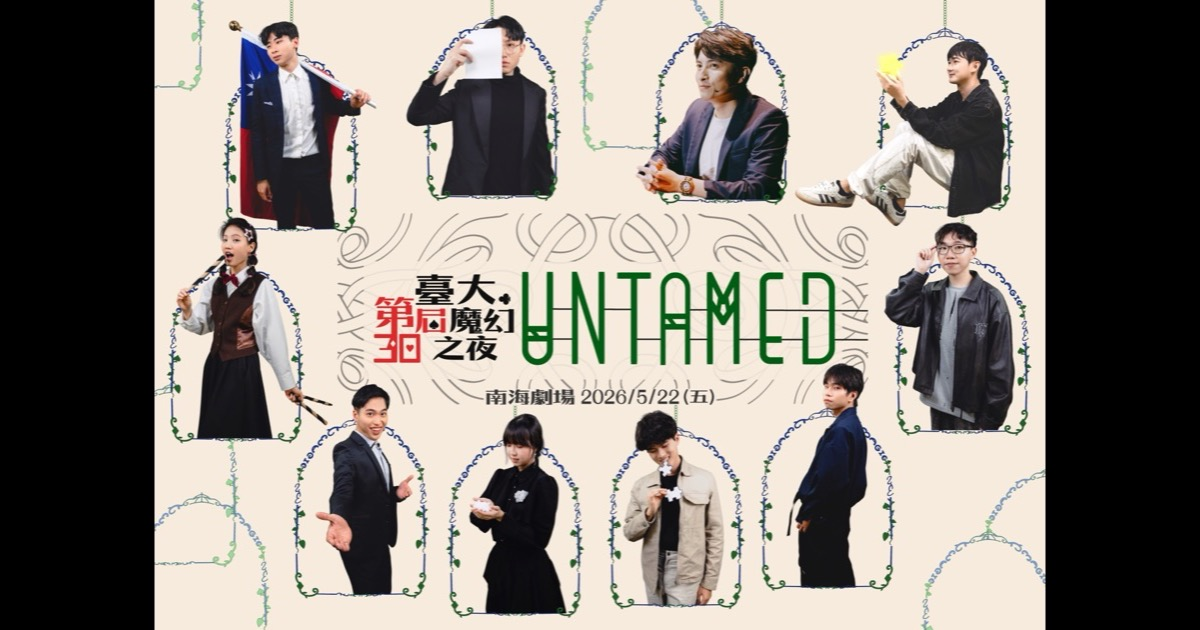
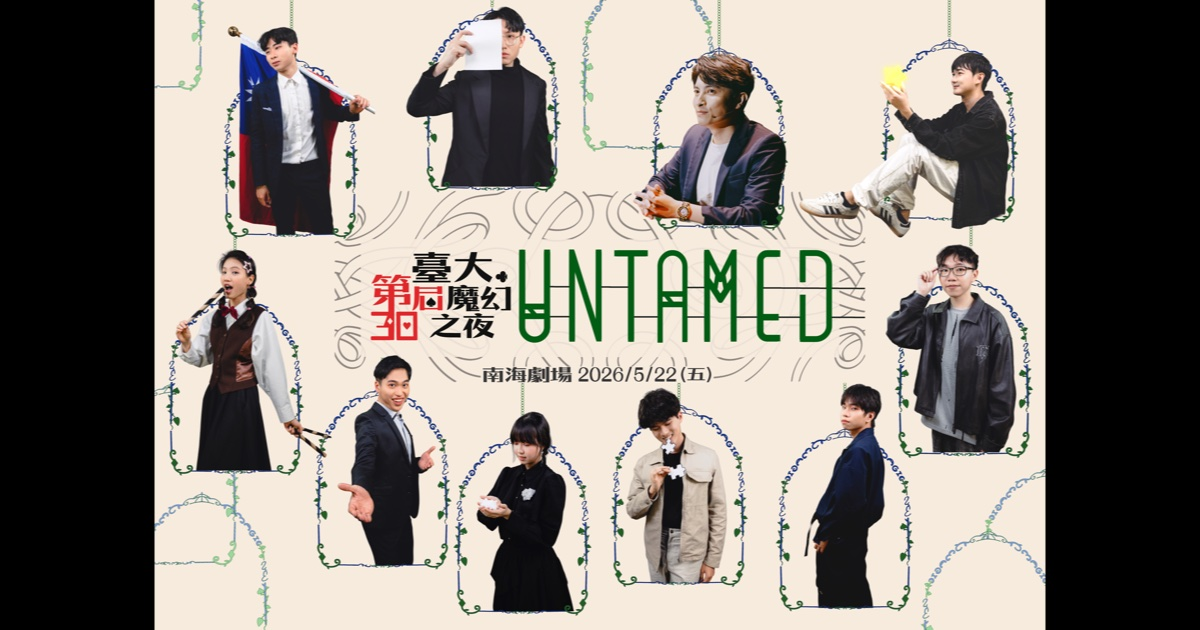
chore(web): regenerate poster assets from v2 artwork and document the workflow
Re-export the 3000px / 1200px posters and the 1200x630 OG image from the
updated UNTAMED artwork, and add a README section so next year's
maintainer doesn't have to rediscover the sips parameters.

diff --git a/README.md b/README.md
@@ -124,6 +124,42 @@ Web 在 localhost 會自動接 auth emulator，所以本機測試時用上面這
 
 兩邊要同步改（後端的 phase 時間是 source of truth、前端只做 UX 提示）。CRA 不能直接 import 出 `web/src/` 之外的檔案，所以暫時維持兩份；確認對齊就好。
 
+## 換新海報
+
+主視覺每年會換，要產三個衍生檔（從設計組給的高解析 PNG / JPG 開始）：
+
+| 輸出 | 尺寸 | 品質 | 用途 |
+| --- | --- | --- | --- |
+| `web/src/img/magic_night30.jpg` | 長邊 3000px | 85 | 桌機 / retina 海報主圖（在 [HomePage.jsx](web/src/pages/HomePage.jsx) `srcSet` 用） |
+| `web/src/img/magic_night30-sm.jpg` | 長邊 1200px | 80 | 手機海報（同上） |
+| `web/public/og-image.jpg` | 1200×630（黑底 letterbox） | 85 | FB / LINE / Twitter 分享卡片 |
+
+macOS 內建 `sips` 就夠用：
+
+```sh
+SRC=path/to/source.png
+
+# 主圖（3000px）
+sips -s format jpeg -s formatOptions 85 -Z 3000 "$SRC" \
+  --out web/src/img/magic_night30.jpg
+
+# 手機版（1200px）
+sips -s format jpeg -s formatOptions 80 -Z 1200 "$SRC" \
+  --out web/src/img/magic_night30-sm.jpg
+
+# OG image（1200×630，海報置中於黑底）
+sips --resampleHeight 630 "$SRC" --out /tmp/og-fitted.jpg
+sips -s format jpeg -s formatOptions 85 -p 630 1200 --padColor 000000 \
+  /tmp/og-fitted.jpg --out web/public/og-image.jpg
+```
+
+注意：
+
+- 換檔名（例：`magic_night30.jpg` → `magic_night31.jpg`）就要同步改 [HomePage.jsx](web/src/pages/HomePage.jsx) 的 `import`；OG image 固定叫 `og-image.jpg`，不要改檔名（[index.html](web/public/index.html) 的 `og:image` URL 寫死）
+- 換屆數記得改 [index.html](web/public/index.html) 的 `<title>` / `og:title` / `og:description`
+- 部署後到 [FB Sharing Debugger](https://developers.facebook.com/tools/debug/) 按 **Scrape Again** 才會刷新 OG cache
+- 設計組的高解析原檔不進 repo（15 MB 等級），備份到 Drive / vault 就好
+
 ## API 摘要
 
 | Method | Path                       | 用途                                  |
